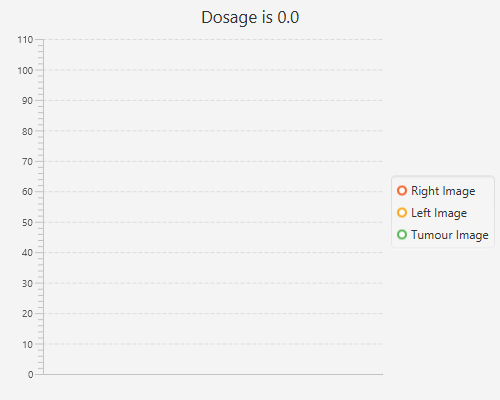
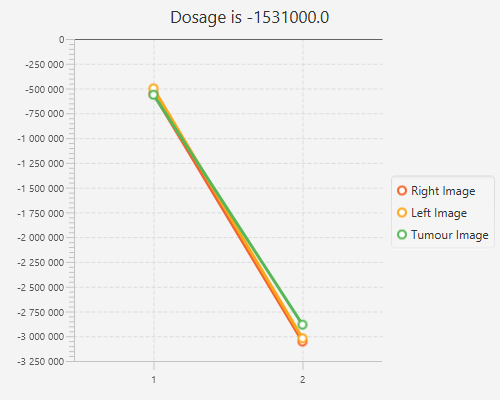
Update clear functionality
updated

diff --git a/master-dose-app/src/main/java/co/za/master/dose/control/ImageCaptureController.java b/master-dose-app/src/main/java/co/za/master/dose/control/ImageCaptureController.java
@@ -57,22 +57,29 @@ public class ImageCaptureController implements Initializable {
 
 	@FXML
 	private TableView<ImageMeasureItem> tableView;
-	
-	@FXML private TableColumn<ImageMeasureItem, Integer> imageNumber;
-	@FXML private TableColumn<ImageMeasureItem, String> imageType;
-	@FXML private TableColumn<ImageMeasureItem, Integer> interval;
-	@FXML private TableColumn<ImageMeasureItem, Double> leftMeanCount;
-	@FXML private TableColumn<ImageMeasureItem, Double> rightMeanCount;
-	@FXML private TableColumn<ImageMeasureItem, Double> tumourMeanCount;
-	
-	@FXML private  TextField intervalTxt;
-	@FXML private  TextField imageNumberTxt;
+
+	@FXML
+	private TableColumn<ImageMeasureItem, Integer> imageNumber;
+	@FXML
+	private TableColumn<ImageMeasureItem, String> imageType;
+	@FXML
+	private TableColumn<ImageMeasureItem, Integer> interval;
+	@FXML
+	private TableColumn<ImageMeasureItem, Double> leftMeanCount;
+	@FXML
+	private TableColumn<ImageMeasureItem, Double> rightMeanCount;
+	@FXML
+	private TableColumn<ImageMeasureItem, Double> tumourMeanCount;
+
+	@FXML
+	private TextField intervalTxt;
+	@FXML
+	private TextField imageNumberTxt;
 
 	@FXML
 	protected void onEnter(ActionEvent event) {
 		System.out.println(event.getSource());
 	}
-
 
 	@FXML
 	protected void handleLoadFirstImagePosteriaAction(ActionEvent event) {
@@ -83,16 +90,43 @@ public class ImageCaptureController implements Initializable {
 	protected void handleLoadFirstImageAnteriaAction(ActionEvent event) {
 
 	}
+
+	@FXML
+	protected void handleClearImageAction(ActionEvent event) {
+		MasterDoseCache.instance.getMeasurementVO().getMap().clear();
+				
+		MasterDoseCache.instance.getMeasurementVO().getTableView().getItems()
+				.setAll(MasterDoseCache.instance.getMeasurementVO().getMap().values());
+
+		imageNumberTxt.clear();
+		intervalTxt.clear();
+		
+		MasterDoseCache.instance.getMeasurementVO().getLinechart().getData().clear();
+		MasterDoseCache.instance.getMeasurementVO().getLinechart().setTitle("Dosage is 0");;
 	
+	}
+
 	@FXML
 	protected void handleLoadImageAction(ActionEvent event) {
-		
-		if (imageNumberTxt.getText().isEmpty() || intervalTxt.getText().isEmpty() ) {
-			JOptionPane.showConfirmDialog(null, "Please capture image number or interval ", "",
+
+		if (imageNumberTxt.getText().isEmpty()) {
+			JOptionPane.showConfirmDialog(null, "Please capture image number ", "", JOptionPane.OK_CANCEL_OPTION,
+					JOptionPane.ERROR_MESSAGE);
+		} else if (intervalTxt.getText().isEmpty()) {
+			JOptionPane.showConfirmDialog(null, "Please capture interval ", "", JOptionPane.OK_CANCEL_OPTION,
+					JOptionPane.ERROR_MESSAGE);
+		} else if (MasterDoseCache.instance.getMeasurementVO().getPatientDetails().getGender() == null) {
+			JOptionPane.showConfirmDialog(null, "Please capture patient's gender ", "", JOptionPane.OK_CANCEL_OPTION,
+					JOptionPane.ERROR_MESSAGE);
+		} else if (MasterDoseCache.instance.getMeasurementVO().getPatientDetails().getFirstName() == null) {
+			JOptionPane.showConfirmDialog(null, "Please capture patient's first name ", "",
 					JOptionPane.OK_CANCEL_OPTION, JOptionPane.ERROR_MESSAGE);
+		} else if (MasterDoseCache.instance.getMeasurementVO().getPatientDetails().getSurname() == null) {
+			JOptionPane.showConfirmDialog(null, "Please capture patient's surname ", "", JOptionPane.OK_CANCEL_OPTION,
+					JOptionPane.ERROR_MESSAGE);
 		} else {
 			MeasurementVO measurementVO = MasterDoseCache.instance.getMeasurementVO();
-			measurementVO.setImageKey(imageNumberTxt.getText()+ "_"+intervalTxt.getText());
+			measurementVO.setImageKey(imageNumberTxt.getText() + "_" + intervalTxt.getText());
 			measurementVO.setImageNumber(Integer.parseInt(imageNumberTxt.getText()));
 			measurementVO.setInterval(Integer.parseInt(intervalTxt.getText()));
 			measurementVO.setTableView(tableView);
@@ -103,27 +137,38 @@ public class ImageCaptureController implements Initializable {
 	public void initialize(URL arg0, ResourceBundle arg1) {
 
 		tableView.getSelectionModel().setSelectionMode(SelectionMode.MULTIPLE);
-			
+
 		imageNumber.setCellValueFactory(new PropertyValueFactory<ImageMeasureItem, Integer>("imageNumber"));
 		imageType.setCellValueFactory(new PropertyValueFactory<ImageMeasureItem, String>("imageType"));
 		interval.setCellValueFactory(new PropertyValueFactory<ImageMeasureItem, Integer>("interval"));
 		leftMeanCount.setCellValueFactory(new PropertyValueFactory<ImageMeasureItem, Double>("leftMeanCount"));
 		rightMeanCount.setCellValueFactory(new PropertyValueFactory<ImageMeasureItem, Double>("rightMeanCount"));
 		tumourMeanCount.setCellValueFactory(new PropertyValueFactory<ImageMeasureItem, Double>("tumourMeanCount"));
-		
-		tableView.getColumns().get(0).prefWidthProperty().bind(tableView.widthProperty().multiply(0.15));    // 33% for id column size
-		tableView.getColumns().get(1).prefWidthProperty().bind(tableView.widthProperty().multiply(0.20));   // 33% for dt column size
-		tableView.getColumns().get(2).prefWidthProperty().bind(tableView.widthProperty().multiply(0.20));    // 33% for cv column size
-		tableView.getColumns().get(3).prefWidthProperty().bind(tableView.widthProperty().multiply(0.15));    // 33% for cv column size
-		tableView.getColumns().get(4).prefWidthProperty().bind(tableView.widthProperty().multiply(0.15));    // 33% for cv column size
-		tableView.getColumns().get(5).prefWidthProperty().bind(tableView.widthProperty().multiply(0.15)); 
-		
-		tableView.setFixedCellSize(25);
-	    tableView.prefHeightProperty().bind(tableView.fixedCellSizeProperty().multiply(Bindings.size(tableView.getItems()).add(2.01)));
-	    tableView.minHeightProperty().bind(tableView.prefHeightProperty());
-	    tableView.maxHeightProperty().bind(tableView.prefHeightProperty());
 
-	    intervalTxt.textProperty().addListener(new ChangeListener<String>() {
+		tableView.getColumns().get(0).prefWidthProperty().bind(tableView.widthProperty().multiply(0.15)); // 33% for id
+																											// column
+																											// size
+		tableView.getColumns().get(1).prefWidthProperty().bind(tableView.widthProperty().multiply(0.20)); // 33% for dt
+																											// column
+																											// size
+		tableView.getColumns().get(2).prefWidthProperty().bind(tableView.widthProperty().multiply(0.20)); // 33% for cv
+																											// column
+																											// size
+		tableView.getColumns().get(3).prefWidthProperty().bind(tableView.widthProperty().multiply(0.15)); // 33% for cv
+																											// column
+																											// size
+		tableView.getColumns().get(4).prefWidthProperty().bind(tableView.widthProperty().multiply(0.15)); // 33% for cv
+																											// column
+																											// size
+		tableView.getColumns().get(5).prefWidthProperty().bind(tableView.widthProperty().multiply(0.15));
+
+		tableView.setFixedCellSize(25);
+		tableView.prefHeightProperty()
+				.bind(tableView.fixedCellSizeProperty().multiply(Bindings.size(tableView.getItems()).add(2.01)));
+		tableView.minHeightProperty().bind(tableView.prefHeightProperty());
+		tableView.maxHeightProperty().bind(tableView.prefHeightProperty());
+
+		intervalTxt.textProperty().addListener(new ChangeListener<String>() {
 
 			public void changed(ObservableValue<? extends String> arg0, String oldValue, String newValue) {
 				if (!newValue.matches("\\d{0,2}([\\.]\\d{0,1})?")) {
@@ -135,8 +180,8 @@ public class ImageCaptureController implements Initializable {
 				}
 			}
 		});
-	    
-	    imageNumberTxt.textProperty().addListener(new ChangeListener<String>() {
+
+		imageNumberTxt.textProperty().addListener(new ChangeListener<String>() {
 
 			public void changed(ObservableValue<? extends String> arg0, String oldValue, String newValue) {
 				if (!newValue.matches("\\d{0,2}([\\.]\\d{0,1})?")) {
@@ -148,6 +193,6 @@ public class ImageCaptureController implements Initializable {
 				}
 			}
 		});
-        
+
 	}
 }

diff --git a/master-dose-app/src/main/java/co/za/master/dose/frame/MainAppController.java b/master-dose-app/src/main/java/co/za/master/dose/frame/MainAppController.java
@@ -53,7 +53,7 @@ public class MainAppController implements Initializable {
 	private TextField firstNameTxt;
 
 	@FXML
-	private TextField surnameTxt;
+	private TextField surnameTxt = new TextField();
 
 	@FXML
 	private TextField patientTxt;		
@@ -101,6 +101,21 @@ public class MainAppController implements Initializable {
 							.getMeasurementVO();
 					measurementVO.getPatientDetails().setPatientId(newValue);;
 					patientIdTxt.setText(newValue);
+				}
+				
+			}
+		});
+		
+		surnameTxt.textProperty().addListener(new ChangeListener<String>() {
+
+			@Override
+			public void changed(ObservableValue<? extends String> arg0, String oldValue, String newValue) {
+
+				if (!newValue.isEmpty()) {
+					MeasurementVO measurementVO = MasterDoseCache.instance
+							.getMeasurementVO();
+					measurementVO.getPatientDetails().setSurname(newValue);;
+					surnameTxt.setText(newValue);
 				}
 				
 			}

diff --git a/master-dose-app/src/main/java/co/za/master/dose/measure/listeners/SpectImageMeasureActionListener.java b/master-dose-app/src/main/java/co/za/master/dose/measure/listeners/SpectImageMeasureActionListener.java
@@ -63,6 +63,7 @@ public class SpectImageMeasureActionListener implements MeasureActionListenerInt
 
 			imageMeasureItem.setImageNumber(MasterDoseCache.instance.getMeasurementVO().getImageNumber());
 			imageMeasureItem.setInterval(MasterDoseCache.instance.getMeasurementVO().getInterval());
+			imageMeasureItem.setImageType(MasterDoseCache.instance.getMeasurementVO().getConfigData().getImageType());
 			MasterDoseCache.instance.getMeasurementVO().getMap().put(key, imageMeasureItem);
 			System.out.println("Printing first VO : " + imageMeasureItem);
 			MasterDoseCache.instance.getMeasurementVO().getTableView().getItems()

diff --git a/master-dose-app/src/main/java/co/za/master/dose/utils/ImageHelper.java b/master-dose-app/src/main/java/co/za/master/dose/utils/ImageHelper.java
@@ -688,6 +688,9 @@ public class ImageHelper {
 			File f = new File("src/main/java/co/za/master/dose/frame/Login.css");
 			linechart.getStylesheets().add(f.getAbsolutePath());
 		}
+		
+		measurementBean.setLinechart(linechart);
+		MasterDoseCache.instance.getMeasurementVO().setLinechart(linechart);
 	}
 
 	@SuppressWarnings({ "rawtypes", "unchecked" })
